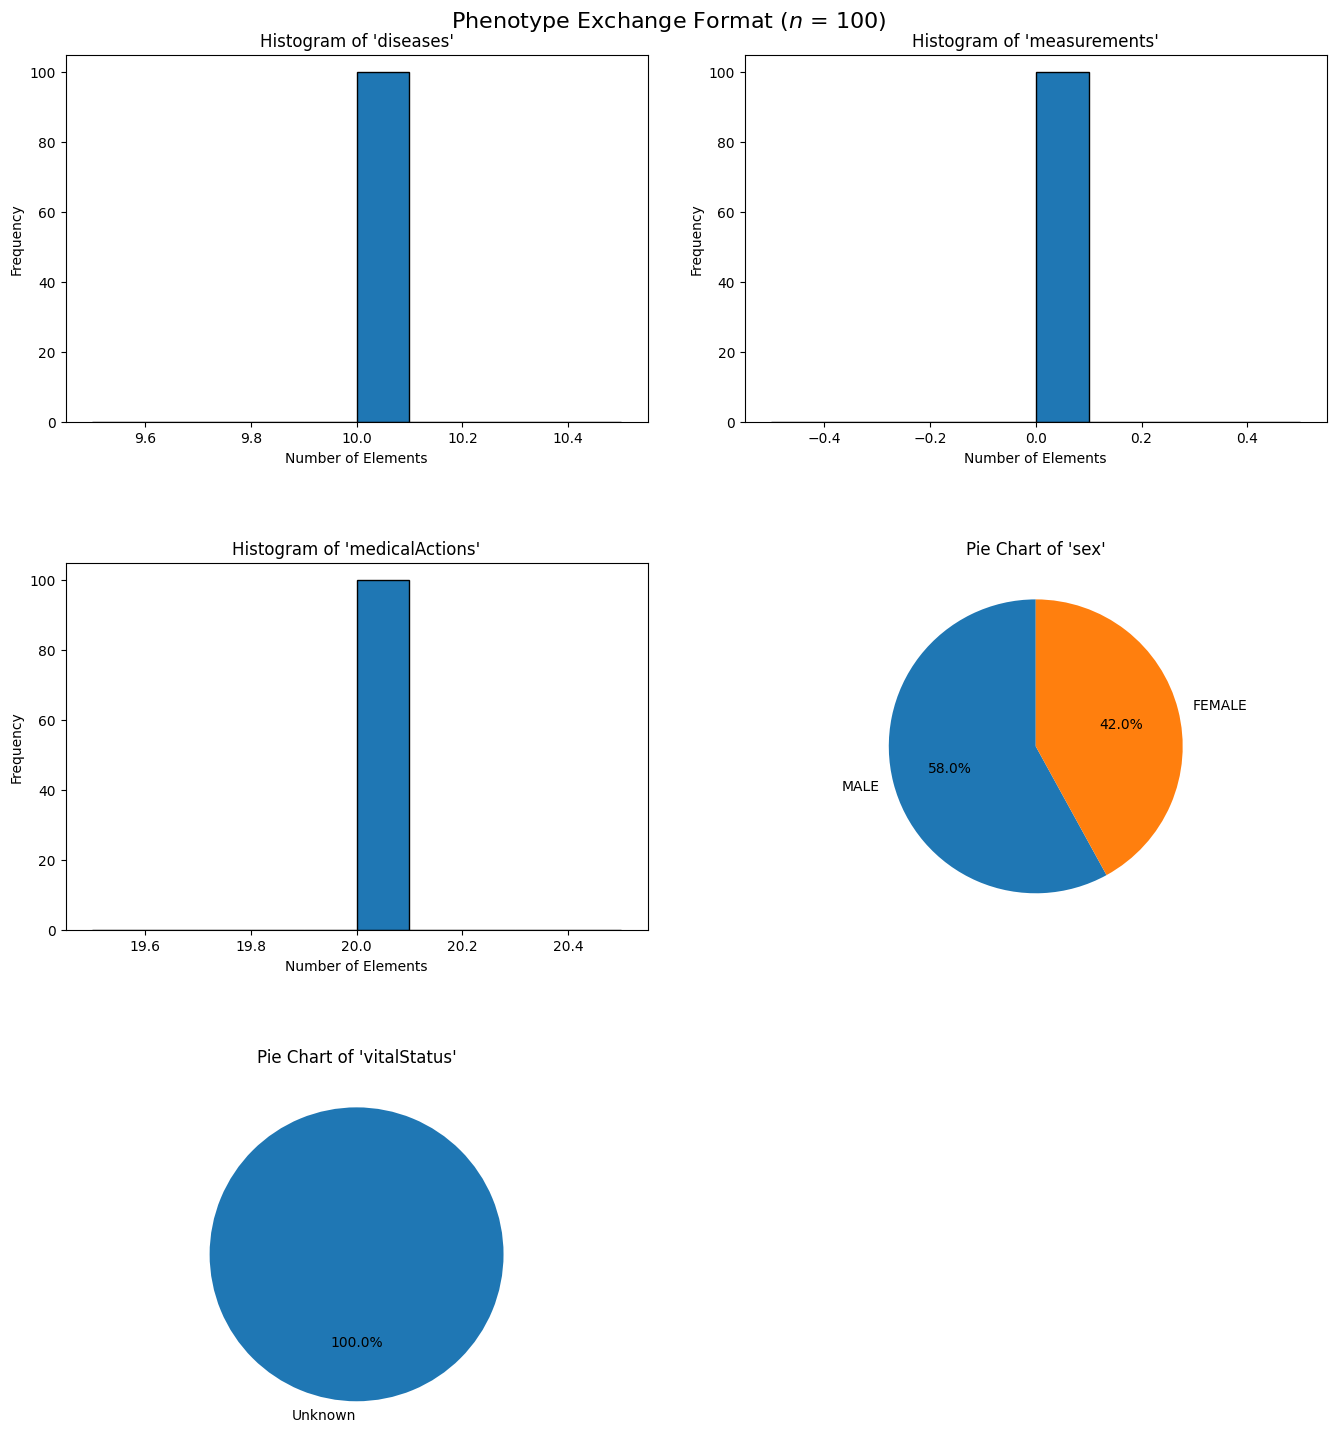
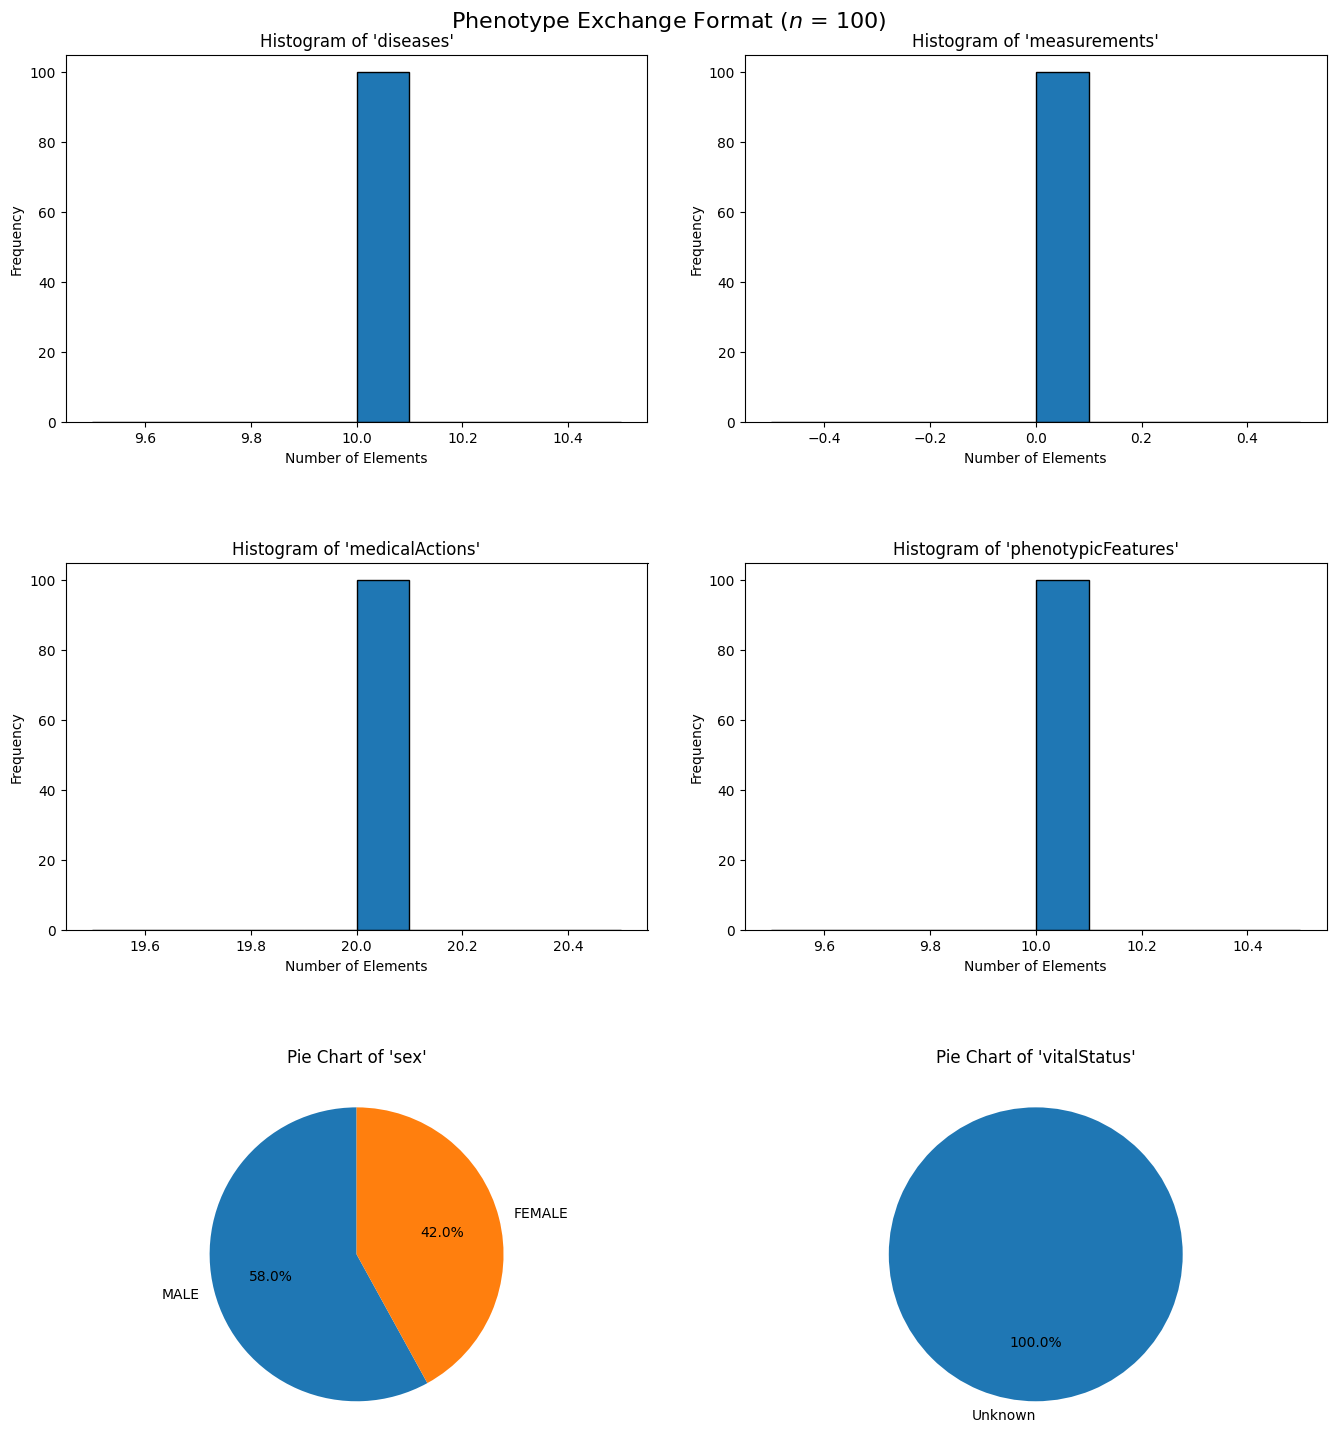
Add phenotypicFeatures to PXF plot

Changed region(s): [[0.6445, 0.3729, 0.9207, 0.6837], [0.6445, 0.7148, 0.89, 0.9945], [0.2148, 0.7148, 0.399, 0.9634]]

diff --git a/utils/bff_pxf_plot/bff_pxf_plot_utils.py b/utils/bff_pxf_plot/bff_pxf_plot_utils.py
@@ -26,7 +26,7 @@ def plot_data(data, output_file):
 
     # Define histogram and pie chart keys for both formats
     if is_pxf:
-        histogram_keys = ["diseases", "measurements", "medicalActions"]
+        histogram_keys = ["diseases", "measurements", "medicalActions", "phenotypicFeatures"]
         pie_chart_keys = ["sex", "vitalStatus"]
         main_title = "Phenotype Exchange Format"
     else:

diff --git a/docs/federated-version-proposal.md b/docs/federated-version-proposal.md
@@ -131,7 +131,7 @@ In this proposal, we aim to explore the potential application of Pheno-Ranker wi
 
     2. Alternatively, centers may submit queries using actual JSON data (either `BFF` or `PXF` objects), which should be anonymized or meet the network’s security standards. This option allows the recipient site to perform similarity analyses either on their precomputed data or on-the-fly using Pheno-Ranker’s CLI or module, offering greater adaptability.
 
-    The response schema can either adhere to the Beacon v2 specification standards or be adapted to include similarity metrics, enhancing the utility and adaptability of the integration.
+    The response schema can either adhere to the Beacon v2 specification or be adapted to include similarity metrics, enhancing the utility and adaptability of the integration.
 
     ??? Example "Draft Proposal for the JSON Schema of the `phenoRanker` Query Parameter" 
 
